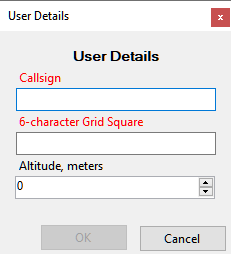
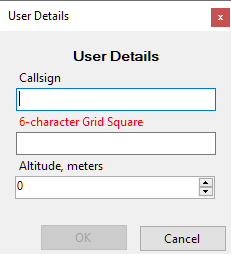
release v.1.6

diff --git a/SkyRoof/Settings/UserDetailsDialog.cs b/SkyRoof/Settings/UserDetailsDialog.cs
@@ -24,7 +24,7 @@ namespace SkyRoof
     internal static bool UserDetailsAvailable(Context ctx)
     {
       var sett = ctx.Settings.User;
-      return !string.IsNullOrEmpty(sett.Square);
+      return !string.IsNullOrEmpty(sett?.Square);
     }
 
     private void okBtn_Click(object sender, EventArgs e)
@@ -35,7 +35,7 @@ namespace SkyRoof
     private void LoadSettings()
     {
       textBox1.Text = ctx.Settings.User.Call;
-      if (ctx.Settings.User.Square != "JJ00jj") textBox2.Text = ctx.Settings.User.Square;
+      textBox2.Text = ctx.Settings.User.Square;
       numericUpDown1.Value = ctx.Settings.User.Altitude;
     }
 

diff --git a/SkyRoof/Settings/UserSettings.cs b/SkyRoof/Settings/UserSettings.cs
@@ -10,7 +10,7 @@ namespace SkyRoof
 
     [DisplayName("Grid Square")]
     [Description("Your grid square")]
-    public string Square { get; set; } = "JJ00jj";
+    public string Square { get; set; } = "";
 
     [DisplayName("Altitude")]
     [Description("Your altitude above the sea level, in meters")]

diff --git a/docs/users_guide/setting_up_cat_control.md b/docs/users_guide/setting_up_cat_control.md
@@ -9,8 +9,8 @@
 
 SkyRoof uses **rigctld.exe**, a HamLib-based CAT control daemon, to control the radio.
 
-1. Download HamLib from [its GitHub page](https://github.com/Hamlib/Hamlib): click on **Releases / Latest**,
-then download **hamlib-w64-4.6.2.exe**, or a later version if available.
+1. Download **hamlib-w64-4.5.5.exe** [from GitHub](https://github.com/Hamlib/Hamlib/releases/tag/4.5.5).
+Other versions may not work correctly.
 2. Run the downloaded file to install HamLib, note the folder where it is installed.
 3. Create a shortcut to start **rigctld.exe*, with command line arguments:
 
@@ -23,7 +23,7 @@ then download **hamlib-w64-4.6.2.exe**, or a later version if available.
     Assuming that HamLib is installed in the default location, here is an example string for the shortcut:
 
     ```cmd
-    "C:\Program Files\hamlib-w64-4.6.2\bin\rigctld.exe" -m 3081 -r COM9 -s 115200 
+    "C:\Program Files\hamlib-w64-4.5.5\bin\rigctld.exe" -m 3081 -r COM9 -s 115200 
     ```
 
     In the string above the following arguments are used:

diff --git a/docs/users_guide/setting_up_sdr.md b/docs/users_guide/setting_up_sdr.md
@@ -41,3 +41,20 @@ The two settings, common to all radios, are:
 - **Single Gain** - when set to true, the SDR gain is controlled by the **RF Gain** slider on the toolbar.
   This is the recommended setting. When it is set to false, the settings in the **Stage Gains** are applied to the
   individual stages of the SDR, and the gain slider is disabled.
+
+  ## Using Remote SDR
+
+  SkyRoof can use SDR devices connected to a remote computer via the
+  [SoapyRemote](https://github.com/pothosware/SoapyRemote) driver. To enable remote access to SDR:
+  
+  - **On the remote computer:**
+    - install the **SoapySDRServer** that comes with
+    [SoapySDR](https://github.com/pothosware/SoapySDR/wiki)
+    and run it.
+  - **In SkyRoof:**
+    - enable **SoapyRemote** in the **Settings** dialog;
+    - enter the **host** and **port number** of the remote computer.
+
+      ![SoapyRemote Settings](../images/soapyremote_settings.png)
+
+    - Open the **SDR Devices** dialog and select one of the remote SDR devices from the list.

diff --git a/docs/users_guide/setting_up_rotator_control.md b/docs/users_guide/setting_up_rotator_control.md
@@ -12,12 +12,12 @@ Create a shortcut to start **rotctld.exe*, with command line arguments:
 
 The arguments on the command line must be tailored for your specific rotator and COM port settings. Refer to the
 [rotctld documentation](https://hamlib.sourceforge.net/html/rotctld.1.html) for a complete description
-of the arguments. 
+of the arguments.
 
 Assuming that HamLib is installed in the default location, here is an example string for the shortcut:
 
 ```cmd
-"C:\Program Files\hamlib-w64-4.6.2\bin\rotctld.exe" -m 601 -r COM12 -s 9600 
+"C:\Program Files\hamlib-w64-4.5.5\bin\rotctld.exe" -m 601 -r COM12 -s 9600 
 ```
 
 In the string above the following arguments are used:

diff --git a/docs/download.md b/docs/download.md
@@ -4,7 +4,7 @@
 
 ### Current Version
 
-[SkyRoof.zip v.1.5 Beta](https://github.com/VE3NEA/SkyRoof/releases/download/v.1.5-beta/SkyRoof.zip)
+[SkyRoof.zip v.1.6 Beta](https://github.com/VE3NEA/SkyRoof/releases/download/v.1.6-beta/SkyRoofSetup-v.1.6-beta.zip)
 
 <br>
 
@@ -15,6 +15,13 @@ See [All Releases](https://github.com/VE3NEA/SkyRoof/releases)
 <br>
 
 ### Release Notes
+
+#### v.1.6 Beta
+
+- added support of remote SDR;
+- added automatic checking for software updates;
+- the user is no longer required to enter a Ham callsign;
+- re-entered satellites are now removed from the groups to prevent errors.
 
 #### v.1.5 Beta
 

diff --git a/docs/users_guide/quick_start.md b/docs/users_guide/quick_start.md
@@ -16,8 +16,9 @@ You will be presented with the User Details dialog:
 
 ![User Details Dialog](../images/user_details.png)
 
-Enter your callsign, 6-character grid square and, optionally, your altitude above the sea level.
-This step is required, the program cannot proceed without that information.
+Enter your callsign, 6-character grid square and your altitude above the sea level.
+The grid square is required, the program cannot proceed without that information. The other two
+values are optional.
 
 ### Satellite Data Download
 

diff --git a/docs/users_guide/faq.md b/docs/users_guide/faq.md
@@ -20,3 +20,7 @@ screen width is only `1900 / 2 = 950 pixels`. To fix this, right-click on the De
 to a lower value.
 
 ---
+
+**Q** How can I run two instances of SkyRoof?
+
+**A** By default, only one instance of Skyroof can run at any time, but there is a work around. Make a copy of the SkyRoof.exe file in the same folder, but with a different name, e.g., SkyRoof_2.exe. Each exe will have its own settings, its own data folder, and will run independently of the other instance.
